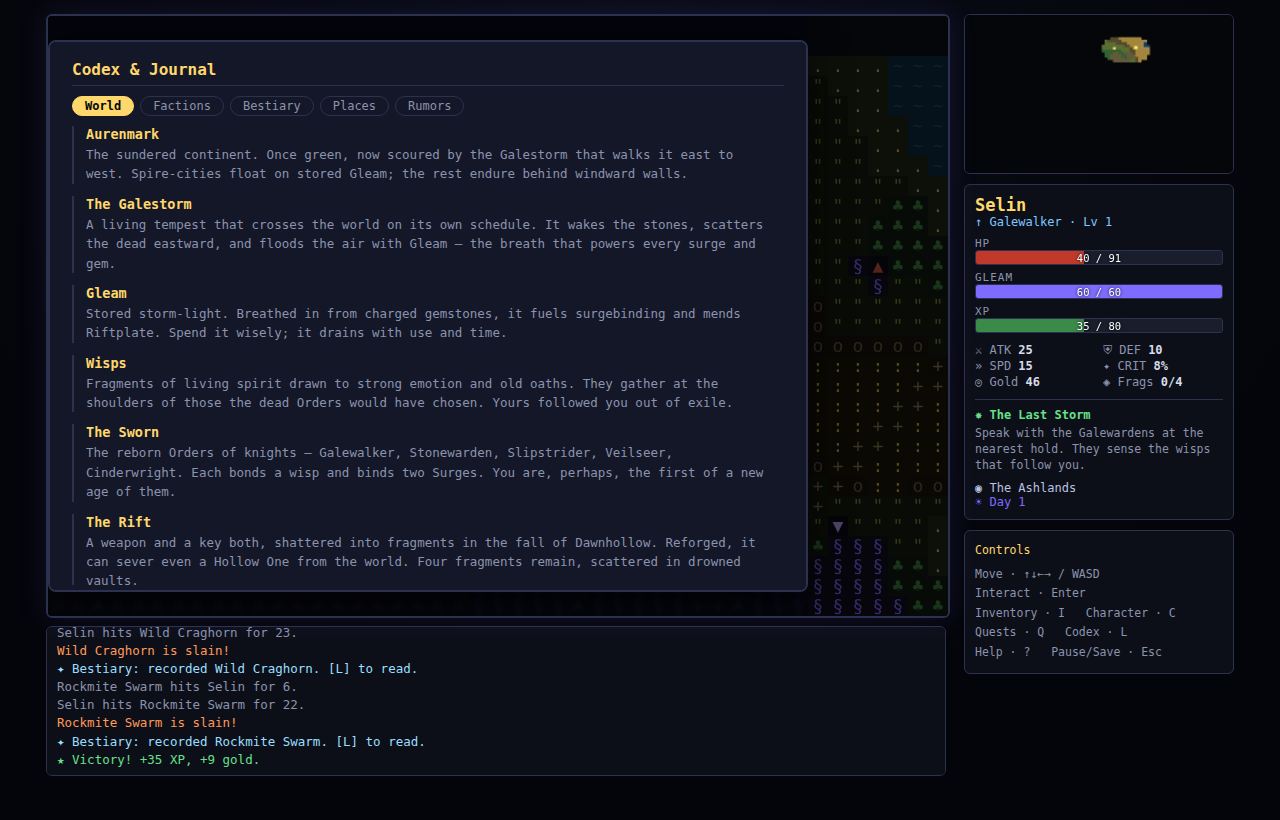
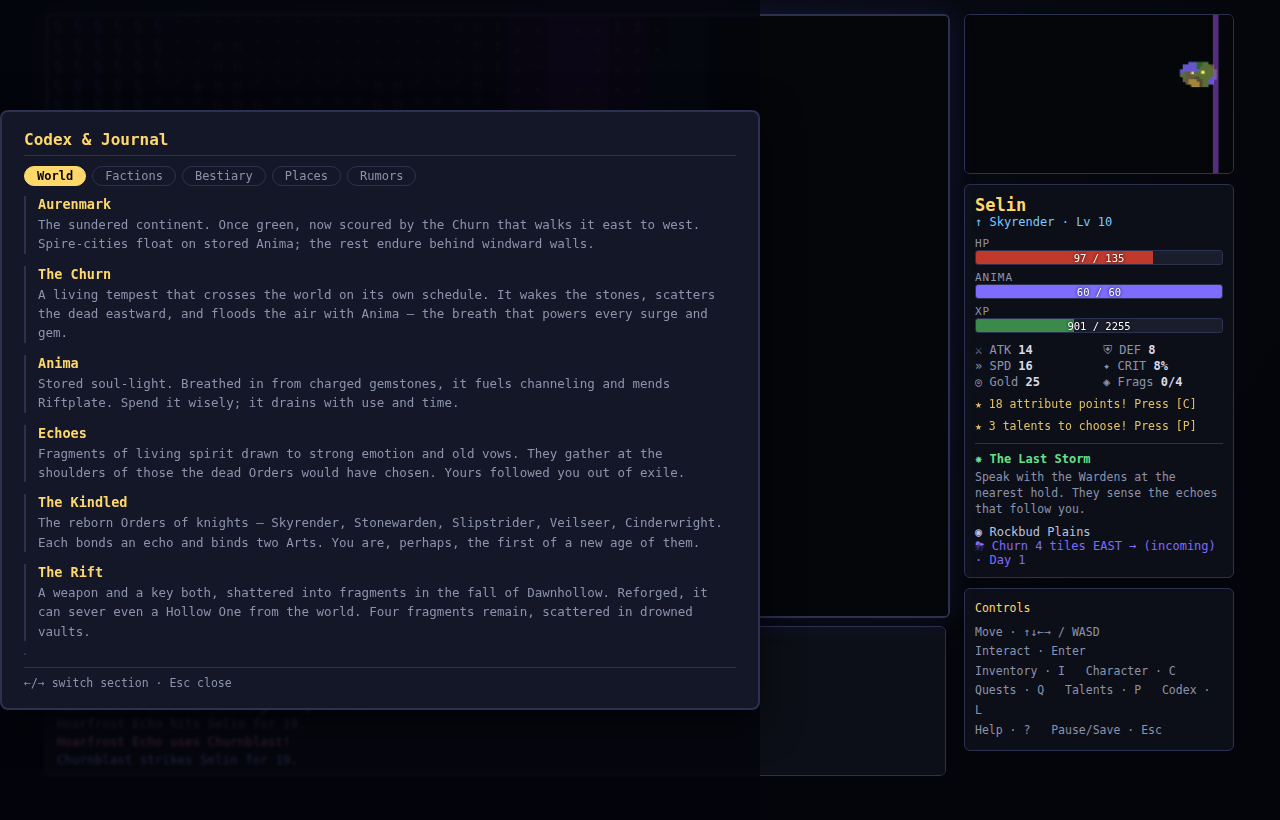
Docs & screenshots: document the Churn, depth systems, and finale
Refresh README for the new cosmology and all added systems (the Churn front,
talents, companions, crafting, landmarks, dynasties, authored finale); update
controls, project layout, and test counts. Refresh showcase screenshots
(overworld HUD, companion combat with content-pack foes, talents, codex).

Claude-Session: https://claude.ai/code/session_012JuAjoBx2YqM5W9EUw89GY

diff --git a/test/shots.js b/test/shots.js
@@ -22,9 +22,15 @@ function serve() { return new Promise((r) => { const s = http.createServer((req,
   await page.waitForTimeout(150);
   // explore a bit for a populated map + log
   for (let i = 0; i < 28; i++) { await page.keyboard.press(['ArrowRight','ArrowDown','ArrowRight','ArrowUp'][i % 4]); await page.waitForTimeout(16); const inc = await page.evaluate(() => window.GAME.state === 'combat'); if (inc) { for (let j=0;j<40;j++){ const st=await page.evaluate(()=>({s:window.GAME.state,a:window.GAME.combat&&window.GAME.combat.awaitingPlayer,m:window.GAME.overlay&&window.GAME.overlay.menu})); if(st.s!=='combat')break; if(!st.a){await page.waitForTimeout(25);continue;} await page.keyboard.press('Enter'); await page.waitForTimeout(25);} } }
-  await page.evaluate(() => { if (window.GAME.overlay) window.GAME.overlay = null; window.GAME.render(); });
+  // bring the Churn front onto the map for the overworld shot
+  await page.evaluate(() => { const g = window.GAME; if (g.overlay) g.overlay = null; g.storm = { active: true, x: g.player.wx + 4, dir: -1, speed: 1.6, timer: 30 }; g.render(); });
   await page.waitForTimeout(60);
   await page.screenshot({ path: path.join(ROOT, 'assets', 'screenshot-play.png') });
+
+  // Talents screen
+  await page.evaluate(() => { const g = window.GAME; window.TLU.Player.gainXp(g.player, 9000, () => {}); g.player.perkPoints = 3; g.openPerks(); });
+  await page.waitForTimeout(60);
+  await page.screenshot({ path: path.join(ROOT, 'assets', 'screenshot-talents.png') });
 
   // NPC dialogue
   await page.evaluate(() => { const g = window.GAME; const t = g.world.towns[0]; g.openNpcs(t); });
@@ -33,8 +39,18 @@ function serve() { return new Promise((r) => { const s = http.createServer((req,
   await page.keyboard.press('Enter'); await page.waitForTimeout(60);  // talk
   await page.screenshot({ path: path.join(ROOT, 'assets', 'screenshot-npc.png') });
 
-  // codex (bestiary tab after a kill earlier) - open and show world tab
-  await page.evaluate(() => { window.GAME.overlay = null; window.GAME.openCodex(); });
+  // combat with a companion vs a group
+  await page.evaluate(() => {
+    const g = window.GAME; g.overlay = null;
+    g.player.party = [window.TLU.Companions.generate(new window.TLU.RNG('shot'), g.player.level, 'channeler')];
+    const grp = window.TLU.Bestiary.spawnGroup(new window.TLU.RNG('shotg'), 'plains', Math.max(2, g.player.level));
+    g.startCombat(grp, { biome: 'plains', level: g.player.level, canFlee: true });
+  });
+  await page.waitForTimeout(120);
+  await page.screenshot({ path: path.join(ROOT, 'assets', 'screenshot-combat.png') });
+
+  // codex
+  await page.evaluate(() => { const g = window.GAME; if (g.combat) { g.state = 'play'; } g.overlay = null; g.openCodex(); });
   await page.waitForTimeout(60);
   await page.screenshot({ path: path.join(ROOT, 'assets', 'screenshot-codex.png') });
 

diff --git a/README.md b/README.md
@@ -45,6 +45,36 @@ tap-an-enemy-to-attack in combat. The layout reflows for small screens automatic
 
 ---
 
+## The signature loop: duel the Churn
+
+The **Churn** is a roaming apocalypse that marches **east→west** across the map on a
+**forecastable schedule you can read and exploit** (the HUD shows how many tiles away it is
+and when it returns). Standing in the front makes the **Arts surge** — huge Anima regen —
+but its wilds are far more frequent and several levels deadlier. As it passes it **lays the
+land bare and uncovers hidden sites**, so chasing the Churn is how an explorer charts the
+world. A force you plan routes around, not weather you watch.
+
+## Depth systems
+
+- **Talents on level-up** — every level offers a choice of three perks (Duelist, Berserker,
+  Lifedrinker, Channeler, Treasure Hunter, Churn-Rider…) gated by your skills. Press **P**.
+- **Companions** — recruit up to two followers (Warrior/Warden/Skirmisher/Channeler) at any
+  hold's tavern; they fight as a real ally side, can be downed without ending the battle,
+  and revive after a win.
+- **Crafting & economy** — slain foes drop materials; **reinforce** gear at the smith
+  (+10%/level, up to +5) and **brew** potions/scrolls at the alchemist.
+- **Explorer landmarks** — ten hand-authored curiosities (the Weeping Colossus, a Fallen
+  Star, a Field of Echoes, a Black Obelisk…), each a one-time discovery with lore + a reward,
+  charted into the Codex.
+- **Asynchronous dynasties** — every hero who dies or wins is recorded into the **Annals**,
+  a ledger that outlives saves. Past heroes return as ghostly **echoes (φ)** in later runs,
+  granting a fragment of their legacy. Legends export to a share code; `?legend=<code>`
+  seeds another player's hero into your world.
+- **Authored hard finale** — beating the main boss unlocks a choice: rest, or **descend into
+  the Heart of the Churn** to face **Karth-Vael**, a 3-phase superboss, for the true ending.
+
+---
+
 ## Extending the game — the content framework
 
 The game is **data-driven**. You can add entire regions, creatures, gear, NPCs, dialogue,
@@ -103,6 +133,7 @@ the next build follows from your choices.
 | Inventory | `I` |
 | Character & spend level-up points | `C` |
 | Quests & bounties | `Q` |
+| **Talents** (choose perks) | `P` |
 | **Codex / Journal** | `Shift+L` |
 | Pause / Save / Quit | `Esc` |
 | Help | `?` |
@@ -158,14 +189,17 @@ src/
     abilities.js      # channeling powers + enemy moves
     bestiary.js       # enemies, mini-boss, final boss, scaling
     quests.js         # main arc + side quests
-    dialogue.js       # NPC archetypes, rumors, codex, barks, travel events
+    dialogue.js       # NPC archetypes, rumors, codex, barks, events, landmarks
+    perks.js          # level-up talent pool
+    companions.js     # recruitable follower roles
   content/
     registry.js       # content-pack loader/merger (the modding framework)
   world.js            # overworld generation (biomes, sites, roads)
   dungeon.js          # dungeon floor generation
   player.js           # character: attributes, gear, derived stats, leveling, codex
-  combat.js           # turn-based battle resolver
+  combat.js           # turn-based battle resolver (player + ally side)
   save.js             # localStorage persistence
+  dynasty.js          # the Annals — asynchronous dynasties / echoes
   render.js           # canvas ASCII viewport + minimap
   ui.js               # HUD + generic menu rendering
   game.js             # state machine: movement, encounters, quests, discovery
@@ -188,10 +222,16 @@ DESIGN_QUESTIONS.md   # refinement questionnaire (loop, depth, endgame, unique s
 ## Tests
 
 ```bash
-npm test               # headless logic simulation (no browser needed)   -> 828 checks
-npm run test:browser   # full desktop UI playthrough in Chromium          -> 24 checks
+npm test               # headless logic simulation (no browser needed)   -> 837 checks
+npm run test:browser   # full desktop UI playthrough in Chromium          -> 44 checks
 npm run test:mobile    # phone-emulated touch playthrough in Chromium      -> 15 checks
 ```
+
+The desktop suite drives one continuous run: chargen → every overlay → talents →
+the Churn front → all town services (shop/smith/alchemist/trainer/recruiter) →
+NPC dialogue → a landmark → asynchronous-dynasty echo → a dungeon → companion
+combat → the main boss → and the **descent into the Heart of the Churn for the
+true ending** — all with zero console errors.
 
 The logic suite generates worlds, rolls hundreds of items, levels a character, runs
 dozens of battles, and verifies a maxed champion can defeat the final boss. The browser
